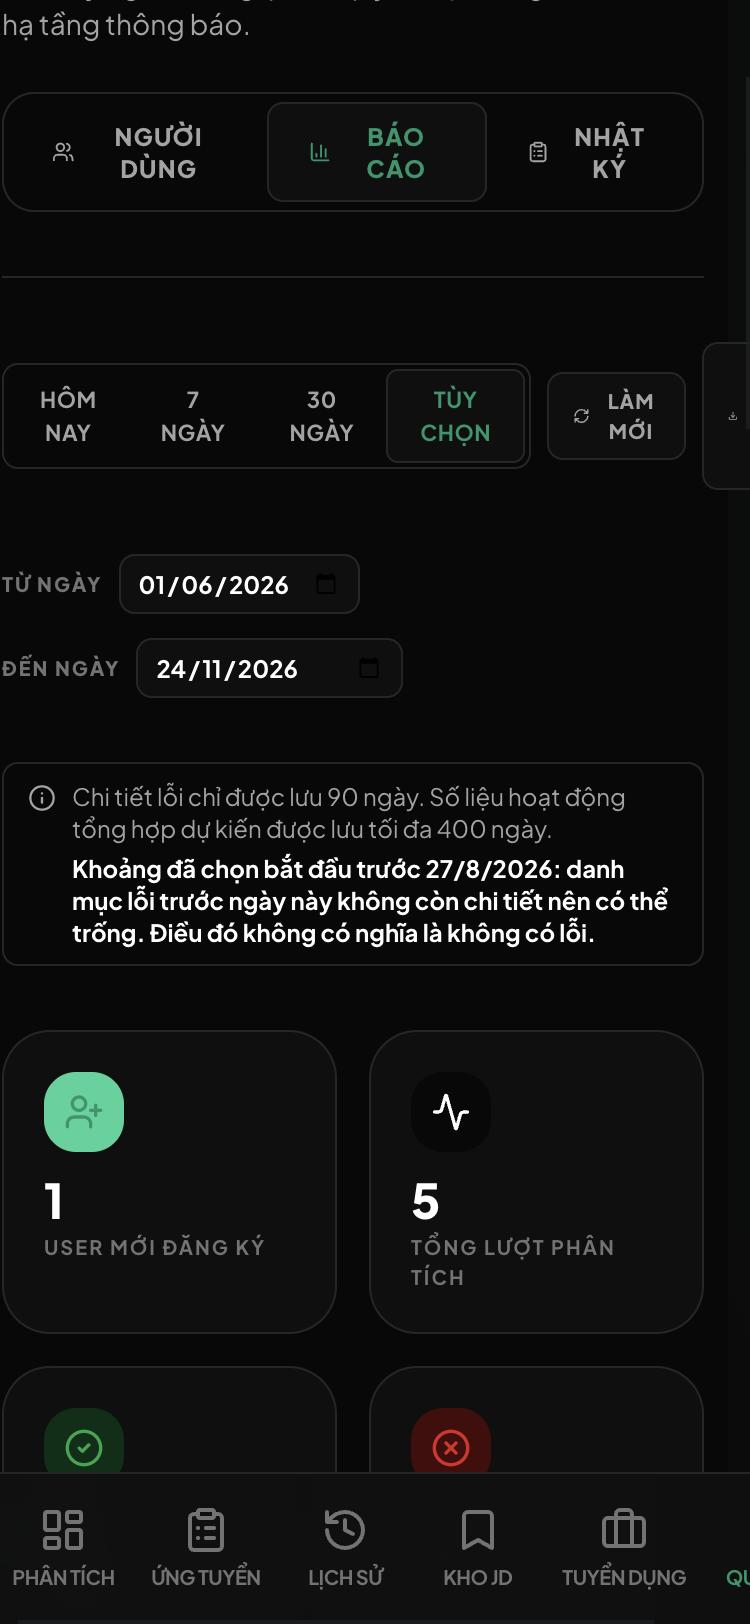
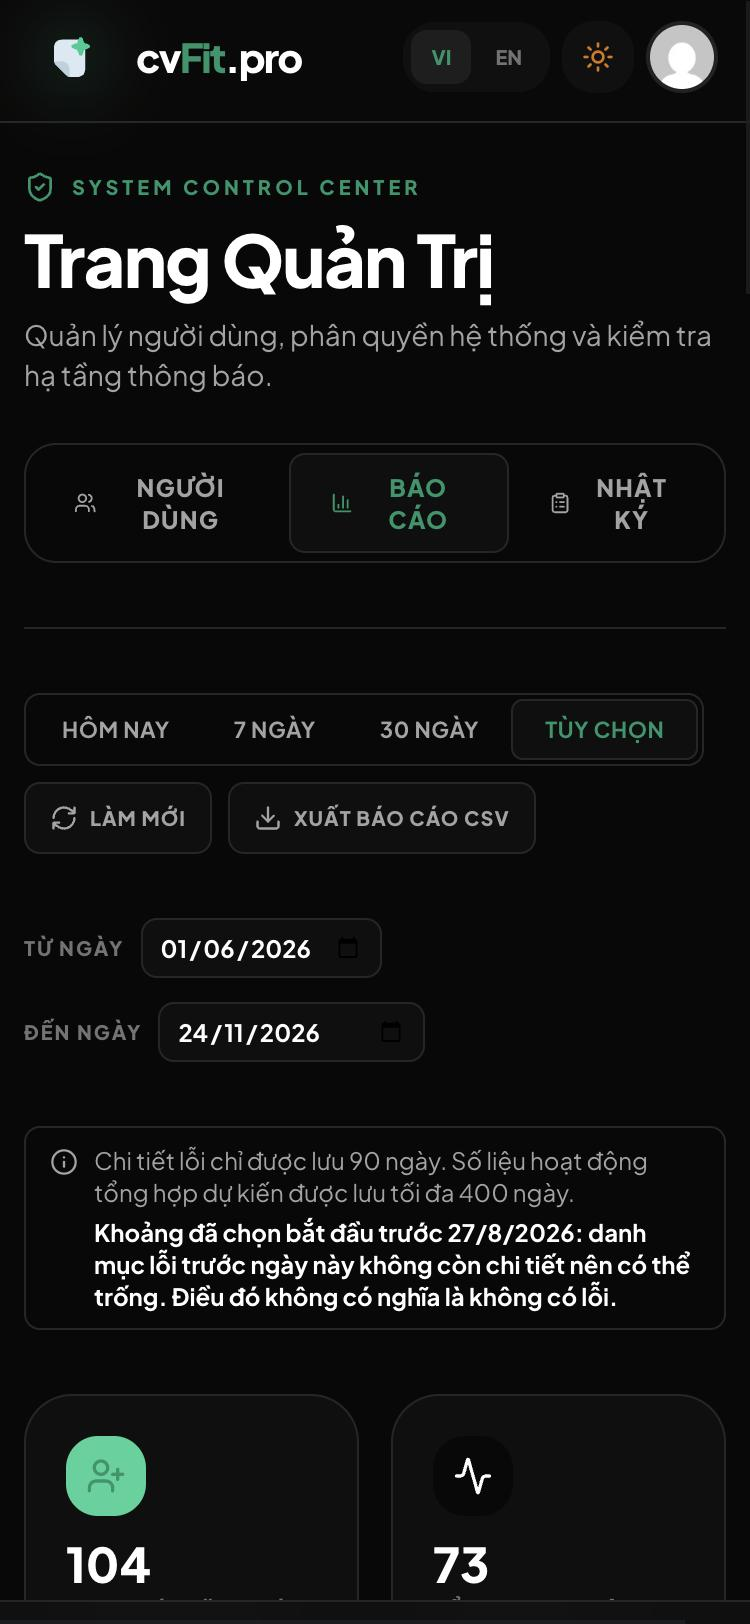
docs(p1): G3 follow-up results in review-hardening report, retaken 375px screenshot

diff --git a/docs/audits/2026-11-24-p1b-review-hardening.md b/docs/audits/2026-11-24-p1b-review-hardening.md
@@ -64,8 +64,10 @@ The first harness version re-applied the unmutated 01 before each mutant, which 
   - EN: "Error details are kept for 90 days. Aggregate activity data is planned to be kept for up to 400 days."
   - When a custom range starts before the first fully-detailed VN day (today − 89; part of day −90 is already scrubbed): "…error categories before that date no longer have details and may be empty. That does not mean there were no errors." This replaces the earlier draft's "Older ranges show zero", which would be false while row deletion (04) is unapproved.
 - **Gated off:** shown only when `VITE_ANALYSIS_LOG_RETENTION_ACTIVE` is exactly `true`. Production does not set it, so merging the PR changes nothing visible. Runbook step 6 sets it in the release that applies 02.
-- Static text, nothing focusable; at 375 px the note spans x 12–363. (The report page already overflows to 437 px at 375 because of the existing filter row's export button — pre-existing, not touched.)
-- Tests: `src/__tests__/components/AdminReportTab.retention.test.tsx` (4 tests): hidden when unset or `"1"`; shown after the range buttons; warning boundary −90 warns / −89 does not; stale custom dates ignored for `30d`. **7/7 UI mutants killed.**
+- Empty error-category list: when the flag is on and the custom range reaches scrubbed days, it says details are gone instead of "No errors in this range" (which would contradict the Failed card).
+- Static text, nothing focusable; at 375 px the note spans x 12–363. The range filter row now wraps (`flex-wrap`, ungated layout fix): its export button was clipped and widened the page to 437 px. Remaining pre-existing overflow at 375 px: the ops card's error-category grid with long error strings (406 px) — unchanged code, not fixed here.
+- Tests: `src/__tests__/components/AdminReportTab.retention.test.tsx` (6 tests): hidden when unset or `"1"`; shown after the range buttons; warning boundary −90 warns / −89 does not; stale custom dates ignored for `30d`; empty-list wording over scrubbed days vs recent ranges / flag off. **9/9 UI mutants killed.**
+- Follow-up when 04 is approved: the copy ("planned … up to 400 days") and the old-range warning need a > 400-day case (counts will then be missing too).
 - Screenshots (local stack, local test admin only): `docs/audits/evidence/2026-11-24-p1b-g3-notice-en-desktop.jpg`, `…-vi-375px.jpg`.
 
 ## 5. Verification
@@ -83,10 +85,10 @@ See §6 for the numbers. No Gemini call anywhere (no AI route exercised; the dev
 | `cron_integration.sh` (real pg_cron execution) | 10/10 PASS |
 | `mutants.sh` | **38/38 killed** (34 SQL incl. 4 rollup, 4 real-cron); both baselines pass |
 | Security regression | PostgREST `/rpc` on scrub / purge / helper: 403 (service key), 401 (anon); `cron` schema not exposed (PGRST106) |
-| G3: `npm run lint`, `npm run lint:api` | PASS |
-| G3: `npx vitest run` | 134 files / 2063 tests passed, 76 skipped (DB-gated, as on main) |
-| G3: `npm run build` | PASS |
-| G3: UI mutants | 7/7 killed |
+| G3 at `aec17a5`: `npm run lint`, `npm run lint:api` | PASS |
+| G3 at `aec17a5`: `npx vitest run` | 134 files / 2065 tests passed, 76 skipped (DB-gated) |
+| G3 at `aec17a5`: `npm run build` | PASS |
+| G3: UI mutants | 9/9 killed |
 | Gemini / VM | none |
 
 ## 7. GO / NO-GO matrix
